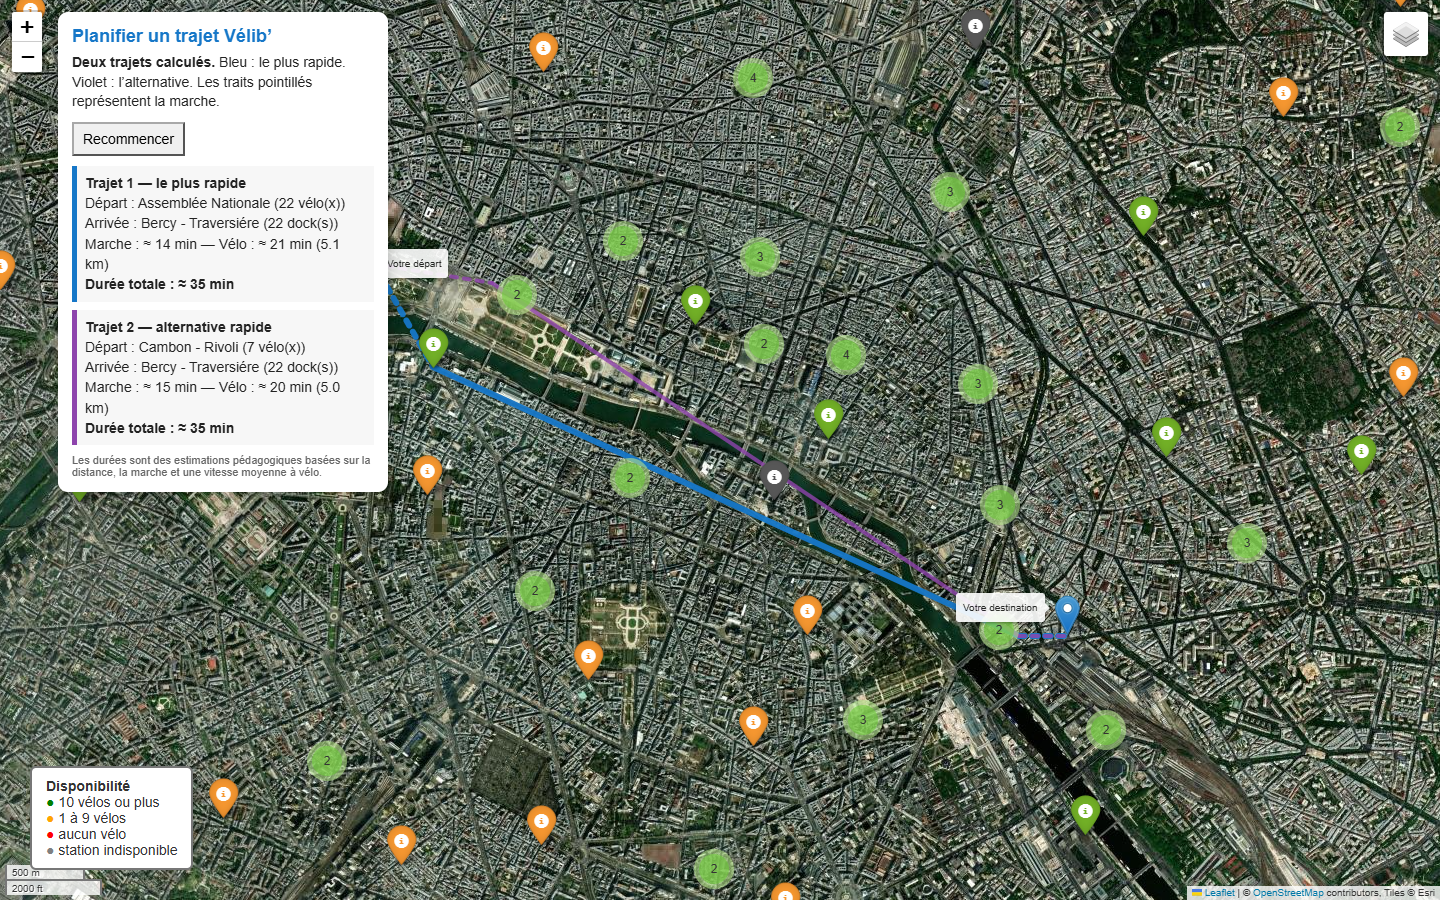
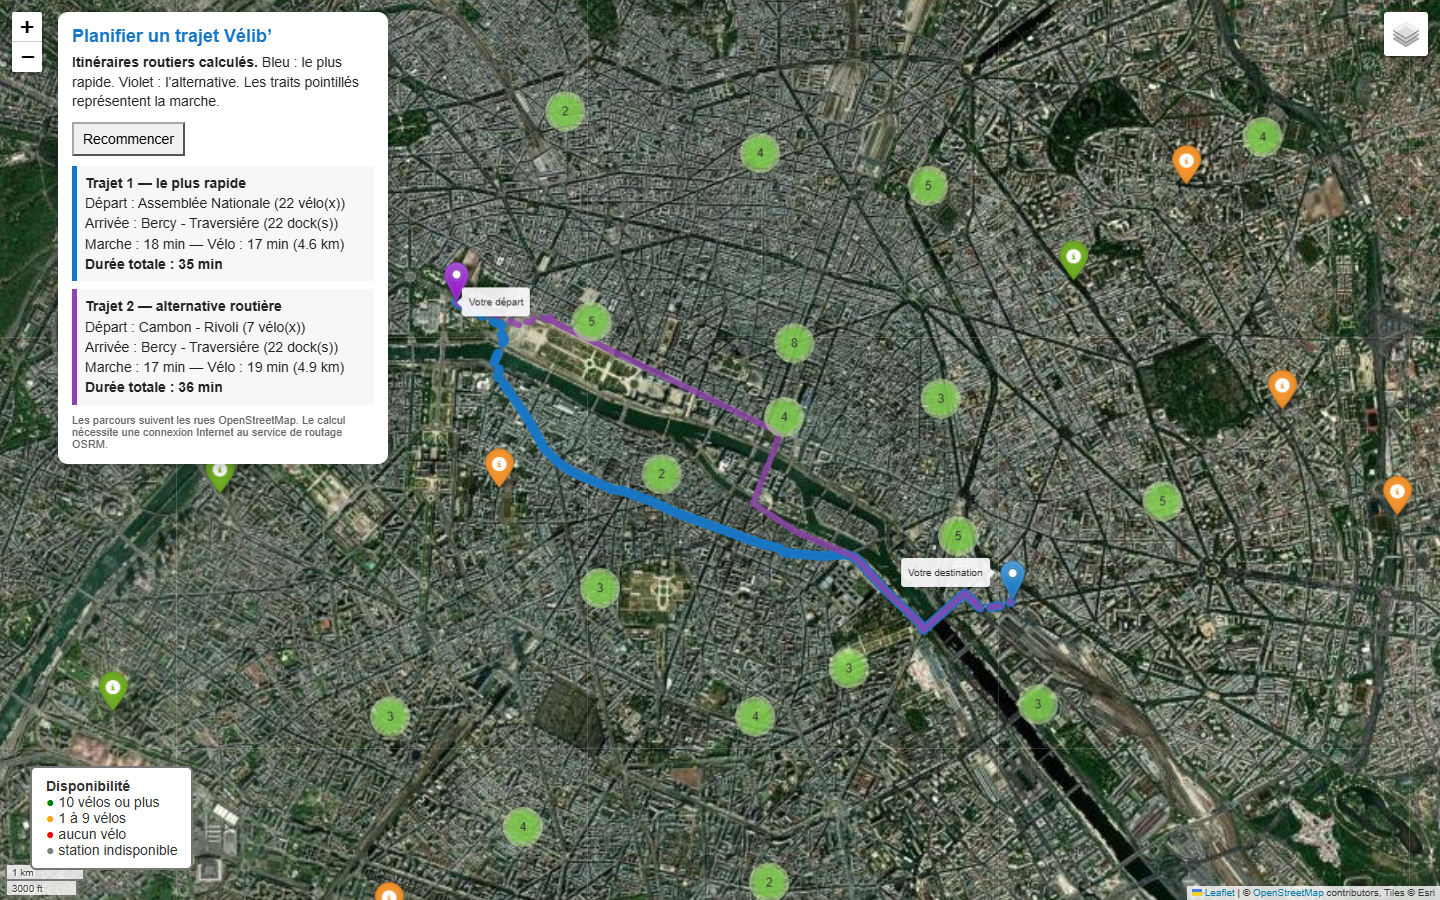
Route bike trips through real streets with OSRM

diff --git a/map_service.py b/map_service.py
@@ -17,7 +17,7 @@ PARIS_CENTER = (48.8566, 2.3522)
 
 
 def _trip_planner_html(map_name: str, stations: list[tuple[Station, float | None]]) -> str:
-    """Retourne le panneau et le JavaScript du planificateur pédagogique."""
+    """Retourne le panneau et le JavaScript du planificateur routier."""
     station_data = [
         {
             "name": station.name,
@@ -48,8 +48,8 @@ def _trip_planner_html(map_name: str, stations: list[tuple[Station, float | None
       </button>
       <div id="planner-result" style="margin-top:10px; line-height:1.45;"></div>
       <div style="font-size:11px; color:#666; margin-top:9px;">
-        Les durées sont des estimations pédagogiques basées sur la distance,
-        la marche et une vitesse moyenne à vélo.
+        Les parcours suivent les rues OpenStreetMap. Le calcul nécessite une
+        connexion Internet au service de routage OSRM.
       </div>
     </div>
     <script>
@@ -61,8 +61,13 @@ def _trip_planner_html(map_name: str, stations: list[tuple[Station, float | None
       let startMarker = null;
       let endMarker = null;
       let routeLayers = [];
+      let calculationToken = 0;
       const help = document.getElementById('planner-help');
       const result = document.getElementById('planner-result');
+      const routingEndpoints = {{
+        foot: 'https://routing.openstreetmap.de/routed-foot',
+        bike: 'https://routing.openstreetmap.de/routed-bike'
+      }};
 
       function escapeHtml(value) {{
         const div = document.createElement('div');
@@ -97,12 +102,55 @@ def _trip_planner_html(map_name: str, stations: list[tuple[Station, float | None
           .slice(0, count);
       }}
 
+      function coordinateString(points) {{
+        return points
+          .map(point => point.lng.toFixed(6) + ',' + point.lat.toFixed(6))
+          .join(';');
+      }}
+
+      async function fetchRoutingJson(url) {{
+        const controller = new AbortController();
+        const timeout = window.setTimeout(() => controller.abort(), 15000);
+        try {{
+          const response = await fetch(url, {{signal: controller.signal}});
+          if (!response.ok) throw new Error('HTTP ' + response.status);
+          const data = await response.json();
+          if (data.code !== 'Ok') throw new Error(data.message || data.code);
+          return data;
+        }} finally {{
+          window.clearTimeout(timeout);
+        }}
+      }}
+
+      async function routingTable(mode, points, sources, destinations) {{
+        const url = routingEndpoints[mode] + '/table/v1/driving/' +
+          coordinateString(points) +
+          '?sources=' + encodeURIComponent(sources.join(';')) +
+          '&destinations=' + encodeURIComponent(destinations.join(';')) +
+          '&annotations=duration,distance';
+        return fetchRoutingJson(url);
+      }}
+
+      async function routedPaths(mode, from, to, alternatives) {{
+        const url = routingEndpoints[mode] + '/route/v1/driving/' +
+          coordinateString([from, to]) +
+          '?overview=full&geometries=geojson&steps=false&alternatives=' +
+          (alternatives ? 'true' : 'false');
+        const data = await fetchRoutingJson(url);
+        return data.routes.map(route => ({{
+          distance: route.distance,
+          duration: route.duration,
+          coordinates: route.geometry.coordinates.map(coord => [coord[1], coord[0]])
+        }}));
+      }}
+
       function clearRoute() {{
         routeLayers.forEach(layer => plannerMap.removeLayer(layer));
         routeLayers = [];
       }}
 
       function resetTrip() {{
+        calculationToken += 1;
         clearRoute();
         if (startMarker) plannerMap.removeLayer(startMarker);
         if (endMarker) plannerMap.removeLayer(endMarker);
@@ -127,8 +175,33 @@ def _trip_planner_html(map_name: str, stations: list[tuple[Station, float | None
         help.innerHTML = '<strong>Départ enregistré.</strong><br>Cliquez maintenant sur la destination.';
       }}
 
-      function calculatePlan() {{
+      async function buildRoutedPlans(candidate, alternatives) {{
+        const departurePoint = stationPoint(candidate.departure.station);
+        const arrivalPoint = stationPoint(candidate.arrival.station);
+        const [walkStartRoutes, bikeRoutes, walkEndRoutes] = await Promise.all([
+          routedPaths('foot', startPoint, departurePoint, false),
+          routedPaths('bike', departurePoint, arrivalPoint, alternatives),
+          routedPaths('foot', arrivalPoint, endPoint, false)
+        ]);
+        const walkStart = walkStartRoutes[0];
+        const walkEnd = walkEndRoutes[0];
+        if (!walkStart || !walkEnd || !bikeRoutes.length) return [];
+        return bikeRoutes.slice(0, 2).map(bike => ({{
+          departure: candidate.departure,
+          arrival: candidate.arrival,
+          walkStart: walkStart,
+          bike: bike,
+          walkEnd: walkEnd,
+          walkingSeconds: walkStart.duration + walkEnd.duration,
+          cyclingSeconds: bike.duration,
+          totalSeconds: walkStart.duration + bike.duration + walkEnd.duration
+        }}));
+      }}
+
+      async function calculatePlan() {{
+        const token = ++calculationToken;
         clearRoute();
+        result.innerHTML = '<strong>Calcul des itinéraires dans les rues…</strong>';
         const departures = nearestStations(
           startPoint,
           station => station.renting && station.bikes > 0,
@@ -148,66 +221,97 @@ def _trip_planner_html(map_name: str, stations: list[tuple[Station, float | None
           return;
         }}
 
-        const candidates = [];
-        departures.forEach(departure => {{
-          arrivals.forEach(arrival => {{
-            if (departure.station.name === arrival.station.name) return;
-            const departurePoint = stationPoint(departure.station);
-            const arrivalPoint = stationPoint(arrival.station);
-            const cyclingDistance = distanceMeters(departurePoint, arrivalPoint) * 1.25;
-            const cyclingMinutes = Math.max(1, Math.ceil(cyclingDistance / 250));
-            const walkingMinutes = Math.ceil((departure.distance + arrival.distance) / 75);
-            candidates.push({{
-              departure: departure,
-              arrival: arrival,
-              cyclingDistance: cyclingDistance,
-              cyclingMinutes: cyclingMinutes,
-              walkingMinutes: walkingMinutes,
-              totalMinutes: cyclingMinutes + walkingMinutes
+        try {{
+          const points = [
+            startPoint,
+            ...departures.map(item => stationPoint(item.station)),
+            ...arrivals.map(item => stationPoint(item.station)),
+            endPoint
+          ];
+          const departureIndexes = departures.map((_, index) => index + 1);
+          const arrivalOffset = 1 + departures.length;
+          const arrivalIndexes = arrivals.map((_, index) => arrivalOffset + index);
+          const endIndex = points.length - 1;
+
+          const [footTable, bikeTable] = await Promise.all([
+            routingTable(
+              'foot',
+              points,
+              [0, ...arrivalIndexes],
+              [...departureIndexes, endIndex]
+            ),
+            routingTable('bike', points, departureIndexes, arrivalIndexes)
+          ]);
+
+          const candidates = [];
+          departures.forEach((departure, departureIndex) => {{
+            arrivals.forEach((arrival, arrivalIndex) => {{
+              if (departure.station.name === arrival.station.name) return;
+              const walkToBike = footTable.durations[0][departureIndex];
+              const bikeDuration = bikeTable.durations[departureIndex][arrivalIndex];
+              const walkFromBike = footTable.durations[arrivalIndex + 1][departures.length];
+              if (walkToBike == null || bikeDuration == null || walkFromBike == null) return;
+              candidates.push({{
+                departure: departure,
+                arrival: arrival,
+                tableDuration: walkToBike + bikeDuration + walkFromBike
+              }});
             }});
           }});
-        }});
-        candidates.sort((a, b) => a.totalMinutes - b.totalMinutes || a.walkingMinutes - b.walkingMinutes);
-        const plans = candidates.slice(0, 2);
-        if (!plans.length) {{
-          result.innerHTML = '<strong>Aucun trajet exploitable entre ces deux points.</strong>';
-          return;
+          candidates.sort((a, b) => a.tableDuration - b.tableDuration);
+          if (!candidates.length) throw new Error('Aucune combinaison routable');
+
+          let plans = await buildRoutedPlans(candidates[0], true);
+          if (plans.length < 2 && candidates.length > 1) {{
+            const secondPairPlans = await buildRoutedPlans(candidates[1], false);
+            plans = plans.concat(secondPairPlans.slice(0, 2 - plans.length));
+          }}
+          plans.sort((a, b) => a.totalSeconds - b.totalSeconds);
+          if (token !== calculationToken) return;
+          if (!plans.length) throw new Error('Aucun itinéraire détaillé disponible');
+
+          const colors = ['#1677c8', '#8e44ad'];
+          const bounds = [startPoint, endPoint];
+          plans.forEach((plan, index) => {{
+            const color = colors[index];
+            const weight = index === 0 ? 6 : 4;
+            const opacity = index === 0 ? 0.95 : 0.8;
+            routeLayers.push(
+              L.polyline(plan.walkStart.coordinates, {{color:color, dashArray:'6,7', weight:weight, opacity:opacity}}).addTo(plannerMap),
+              L.polyline(plan.bike.coordinates, {{color:color, weight:weight, opacity:opacity}}).addTo(plannerMap),
+              L.polyline(plan.walkEnd.coordinates, {{color:color, dashArray:'6,7', weight:weight, opacity:opacity}}).addTo(plannerMap)
+            );
+            bounds.push(...plan.walkStart.coordinates, ...plan.bike.coordinates, ...plan.walkEnd.coordinates);
+          }});
+          plannerMap.fitBounds(L.latLngBounds(bounds), {{padding:[60,60]}});
+
+          help.innerHTML = '<strong>Itinéraires routiers calculés.</strong> Bleu : le plus rapide. Violet : l’alternative. Les traits pointillés représentent la marche.';
+          result.innerHTML = plans.map((plan, index) => {{
+            const walkingMinutes = Math.max(1, Math.round(plan.walkingSeconds / 60));
+            const cyclingMinutes = Math.max(1, Math.round(plan.cyclingSeconds / 60));
+            const totalMinutes = Math.max(1, Math.round(plan.totalSeconds / 60));
+            return '<div style="border-left:5px solid ' + colors[index] + ';padding:7px 8px;margin:8px 0;background:#f7f7f7">' +
+              '<strong>' + (index === 0 ? 'Trajet 1 — le plus rapide' : 'Trajet 2 — alternative routière') + '</strong><br>' +
+              'Départ : ' + escapeHtml(plan.departure.station.name) +
+              ' (' + plan.departure.station.bikes + ' vélo(x))<br>' +
+              'Arrivée : ' + escapeHtml(plan.arrival.station.name) +
+              ' (' + plan.arrival.station.docks + ' dock(s))<br>' +
+              'Marche : ' + walkingMinutes + ' min — Vélo : ' +
+              cyclingMinutes + ' min (' + (plan.bike.distance / 1000).toFixed(1) + ' km)<br>' +
+              '<strong>Durée totale : ' + totalMinutes + ' min</strong></div>';
+          }}).join('');
+        }} catch (error) {{
+          if (token !== calculationToken) return;
+          console.error('Erreur de routage OSRM', error);
+          help.innerHTML = '<strong>Le service de routage ne répond pas.</strong>';
+          result.innerHTML = 'Vérifiez la connexion Internet puis cliquez sur « Recommencer ».';
         }}
-
-        const colors = ['#1677c8', '#8e44ad'];
-        const bounds = [startPoint, endPoint];
-        plans.forEach((plan, index) => {{
-          const color = colors[index];
-          const departurePoint = stationPoint(plan.departure.station);
-          const arrivalPoint = stationPoint(plan.arrival.station);
-          const weight = index === 0 ? 6 : 4;
-          const opacity = index === 0 ? 0.95 : 0.8;
-          routeLayers.push(
-            L.polyline([startPoint, departurePoint], {{color:color, dashArray:'6,7', weight:weight, opacity:opacity}}).addTo(plannerMap),
-            L.polyline([departurePoint, arrivalPoint], {{color:color, weight:weight, opacity:opacity}}).addTo(plannerMap),
-            L.polyline([arrivalPoint, endPoint], {{color:color, dashArray:'6,7', weight:weight, opacity:opacity}}).addTo(plannerMap)
-          );
-          bounds.push(departurePoint, arrivalPoint);
-        }});
-        plannerMap.fitBounds(L.latLngBounds(bounds), {{padding:[60,60]}});
-
-        result.innerHTML = plans.map((plan, index) =>
-          '<div style="border-left:5px solid ' + colors[index] + ';padding:7px 8px;margin:8px 0;background:#f7f7f7">' +
-          '<strong>' + (index === 0 ? 'Trajet 1 — le plus rapide' : 'Trajet 2 — alternative rapide') + '</strong><br>' +
-          'Départ : ' + escapeHtml(plan.departure.station.name) +
-          ' (' + plan.departure.station.bikes + ' vélo(x))<br>' +
-          'Arrivée : ' + escapeHtml(plan.arrival.station.name) +
-          ' (' + plan.arrival.station.docks + ' dock(s))<br>' +
-          'Marche : ≈ ' + plan.walkingMinutes + ' min — Vélo : ≈ ' +
-          plan.cyclingMinutes + ' min (' + (plan.cyclingDistance / 1000).toFixed(1) + ' km)<br>' +
-          '<strong>Durée totale : ≈ ' + plan.totalMinutes + ' min</strong></div>'
-        ).join('');
       }}
 
       function setDestination(latlng) {{
         endPoint = latlng;
         endMarker = L.marker(latlng).addTo(plannerMap).bindTooltip('Votre destination').openTooltip();
-        help.innerHTML = '<strong>Deux trajets calculés.</strong> Bleu : le plus rapide. Violet : l’alternative. Les traits pointillés représentent la marche.';
+        help.innerHTML = '<strong>Destination enregistrée.</strong><br>Calcul des trajets dans les rues…';
         calculatePlan();
       }}
 

diff --git a/tests/test_services.py b/tests/test_services.py
@@ -31,7 +31,11 @@ def test_demo_pipeline_generates_map(tmp_path):
     assert "leaflet" in html.lower()
     assert "Planifier un trajet Vélib" in html
     assert "Trajet 1 — le plus rapide" in html
-    assert "Trajet 2 — alternative rapide" in html
+    assert "Trajet 2 — alternative routière" in html
+    assert "routing.openstreetmap.de/routed-bike" in html
+    assert "routing.openstreetmap.de/routed-foot" in html
+    assert "geometries=geojson" in html
+    assert "cyclingDistance = distanceMeters" not in html
     assert "Prix estimé" not in html
 
 

diff --git a/README.md b/README.md
@@ -11,7 +11,7 @@ Ce projet exploite des données de stations Vélib' avec Python et MongoDB, puis
 - carte Folium avec marqueurs, regroupement et légende de disponibilité ;
 - popups détaillant les vélos et les docks disponibles ;
 - sélection libre d'un départ et d'une destination ;
-- proposition des deux trajets estimés les plus rapides ;
+- proposition de deux trajets qui suivent les rues et les voies cyclables ;
 - recherche facultative autour d'une adresse avec GeoPy ;
 - tests automatisés avec pytest ;
 - exercice Hadoop MapReduce en Java.
@@ -20,6 +20,7 @@ Ce projet exploite des données de stations Vélib' avec Python et MongoDB, puis
 
 ```text
 Flux GBFS -> MongoDB -> PyMongo -> normalisation Python -> carte Folium
+                                                   -> routage OSRM
 
 donnees.csv -> MonMapper -> Shuffle Hadoop -> MonReducer -> résultats HDFS
 ```
@@ -109,11 +110,13 @@ Le panneau en haut à gauche guide l'utilisateur :
 2. cliquer une deuxième fois sur la destination ;
 3. comparer les deux propositions affichées.
 
-Le trajet bleu correspond à l'estimation la plus rapide. Le trajet violet représente l'alternative. Les traits pointillés montrent les parties effectuées à pied. Le panneau indique les stations retenues, les vélos ou docks disponibles, la durée de marche, la durée à vélo et la durée totale estimée.
+Le trajet bleu correspond au parcours routier le plus rapide. Le trajet violet représente une alternative routière. Les deux tracés suivent les rues à partir des données OpenStreetMap. Les traits pointillés montrent les parties effectuées à pied. Le panneau indique les stations retenues, les vélos ou docks disponibles, la durée de marche, la durée à vélo, la distance cyclable et la durée totale.
+
+Le planificateur utilise les services OSRM dédiés à la marche et au vélo. Une connexion Internet est nécessaire au moment du calcul.
 
 Le bouton `Recommencer` efface la sélection et permet de choisir deux nouveaux points.
 
-![Comparaison de deux trajets Vélib](docs/images/03-planification-trajet.png)
+![Comparaison de deux trajets Vélib suivant les rues](docs/images/03-planification-trajet.png)
 
 ### Filtrer les stations
 
@@ -175,6 +178,6 @@ La validation actuelle comprend neuf tests automatisés. Le détail se trouve da
 ## Limites connues
 
 - les disponibilités représentent un instantané et doivent être rafraîchies ;
-- le planificateur estime les distances sans suivre précisément le réseau routier ;
+- le routage dépend d'un service OSRM externe et ne tient pas compte du trafic en temps réel ;
 - les tuiles cartographiques et le géocodage nécessitent une connexion Internet ;
 - la démonstration utilise 100 stations et non l'ensemble du réseau.

diff --git a/TEST_STATUS.md b/TEST_STATUS.md
@@ -16,5 +16,5 @@ Validation effectuée le 24 septembre 2026 sous Windows avec Python 3.11.9.
 | Répartition géographique | Réussi | 5 stations dans chacun des 20 arrondissements | Échantillon, pas les 1 500 stations du réseau |
 | Filtre MongoDB réel `> 10` | Réussi | Requête `$gt` exécutée dans MongoDB | Le nombre varie avec la disponibilité du moment |
 | Adresse / GeoPy | Réussi | Géocodage réel de « 10 rue de Rivoli, 75004 Paris » et carte générée | Dépend de Nominatim et d'Internet |
-| Planificateur interactif | Réussi | Deux clics réels dans le navigateur : deux combinaisons, stations, marche, vélo et durées affichés | Distance estimée, sans routage routier |
+| Planificateur interactif | Réussi | Deux clics réels dans le navigateur : sélection des stations, matrices de durée OSRM et deux tracés suivant les rues | Dépend du service OSRM et d'Internet ; pas de trafic en temps réel |
 | Résultat global automatisé | Réussi | `pytest` : **9 tests réussis** | Aucune observée sur l'instantané testé |
